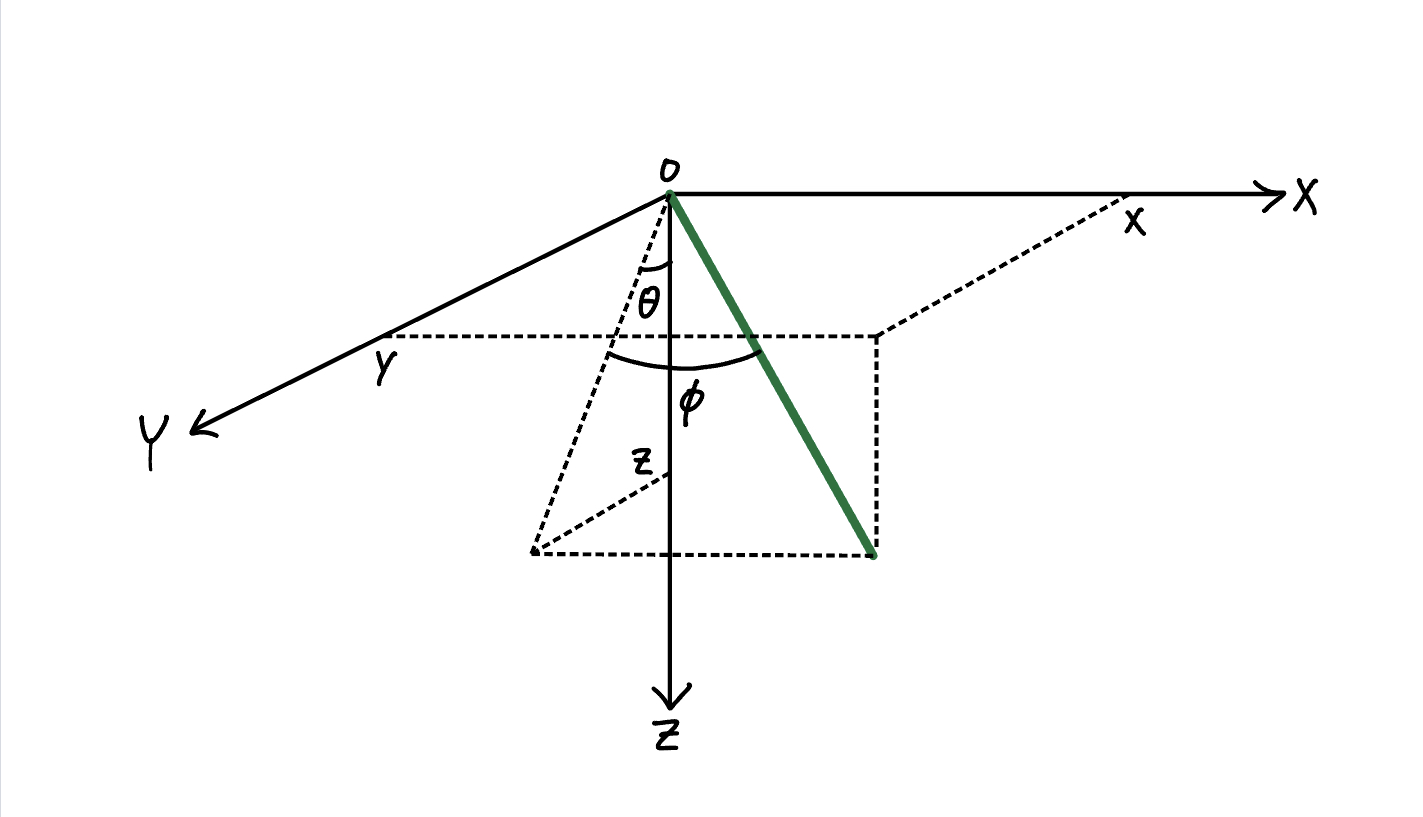
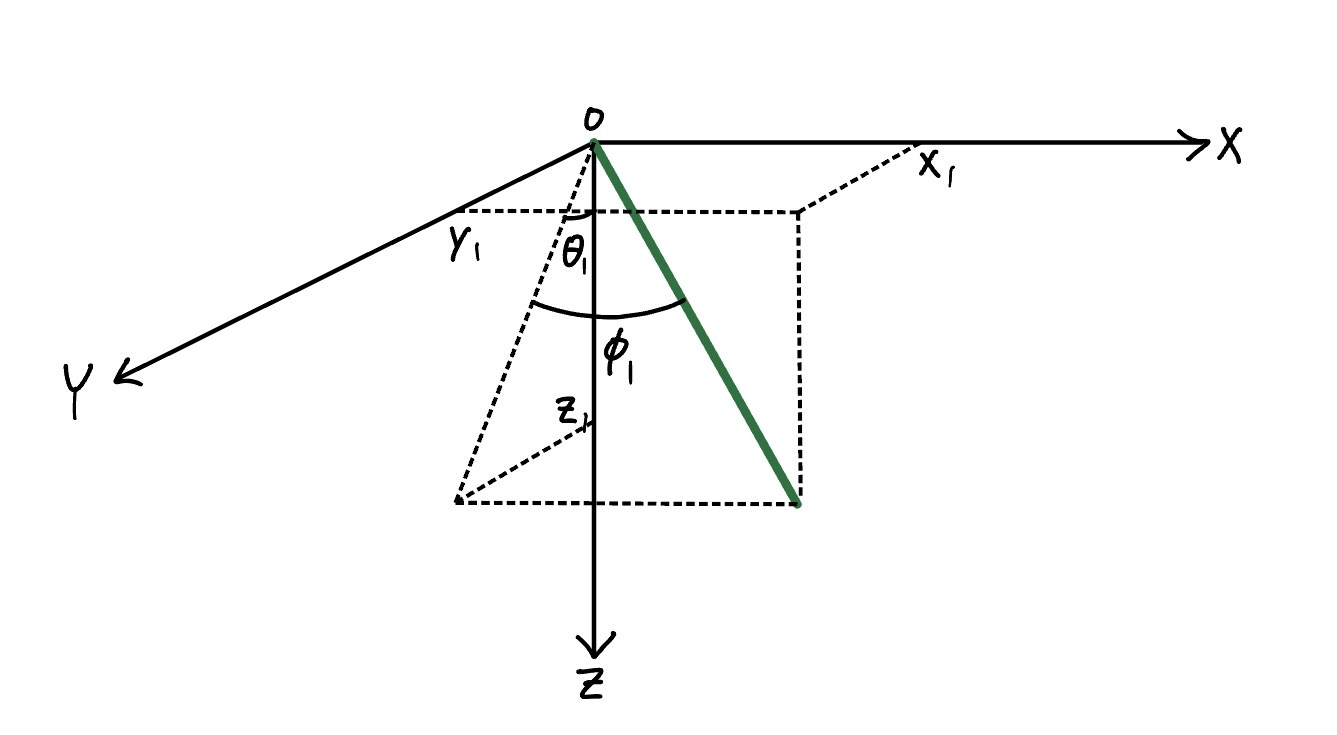
Update

diff --git a/_projects/double_pendulum.md b/_projects/double_pendulum.md
@@ -7,6 +7,13 @@ importance: 2
 category: work
 ---
 ### Overview
-In my <a href="https://jinhyunpark2459.github.io/projects/single_pendulum/">previous post</a>, I simulated a single compound pendulum in 3D. In this post, I will be extending this to a double compound pendulum in 3D. I will be using the Lagrange method only. Although the Newton-Euler method will not be explored in this post, it is not conceptually any different than what was done for the single pendulum. The only additional complexity would be that there will be additional reaction forces and moments on the first pendulum.
+In my <a href="https://jinhyunpark2459.github.io/projects/single_pendulum/">previous post</a>, I simulated a single compound pendulum in 3D. In this post, I will be extending this to a double compound pendulum in 3D. I will be using the Lagrange method only. Although the Newton-Euler method will not be explored in this post, it is not conceptually any different than what was done for the single pendulum. The only additional complexity would be that there will be additional reaction forces and moments on the first pendulum. Just as in the single pendulum, the two pendulums will not be allowed to twist about their longitudinal axes.
 
 ### Lagrange Method
+In general, it takes a total of twelve coordinates to fully describe a system with two rigid bodies. Six of these describe the position of the two bodies and the other six describe the orientation of the two bodies. Constraining the first pendulum to be rigidly attached to the base and constraining the second pendulum to be rigidly attached to the first pendulum reduces this to six coordinates. The no-twist condition further reduces this to four coordinates.The four coordinates will be defined as $$\theta_1$$, $$\phi_1$$, $$\theta_2$$, and $$\phi_2$$ (see figure below).
+
+<div class="row justify-content-sm-center">
+    <div class="col-sm-8 mt-3 mt-md-0">
+        {% include figure.html path="assets/img/double_pendulum/angles.jpg" class="img-fluid rounded z-depth-1" %}
+    </div>
+</div>
